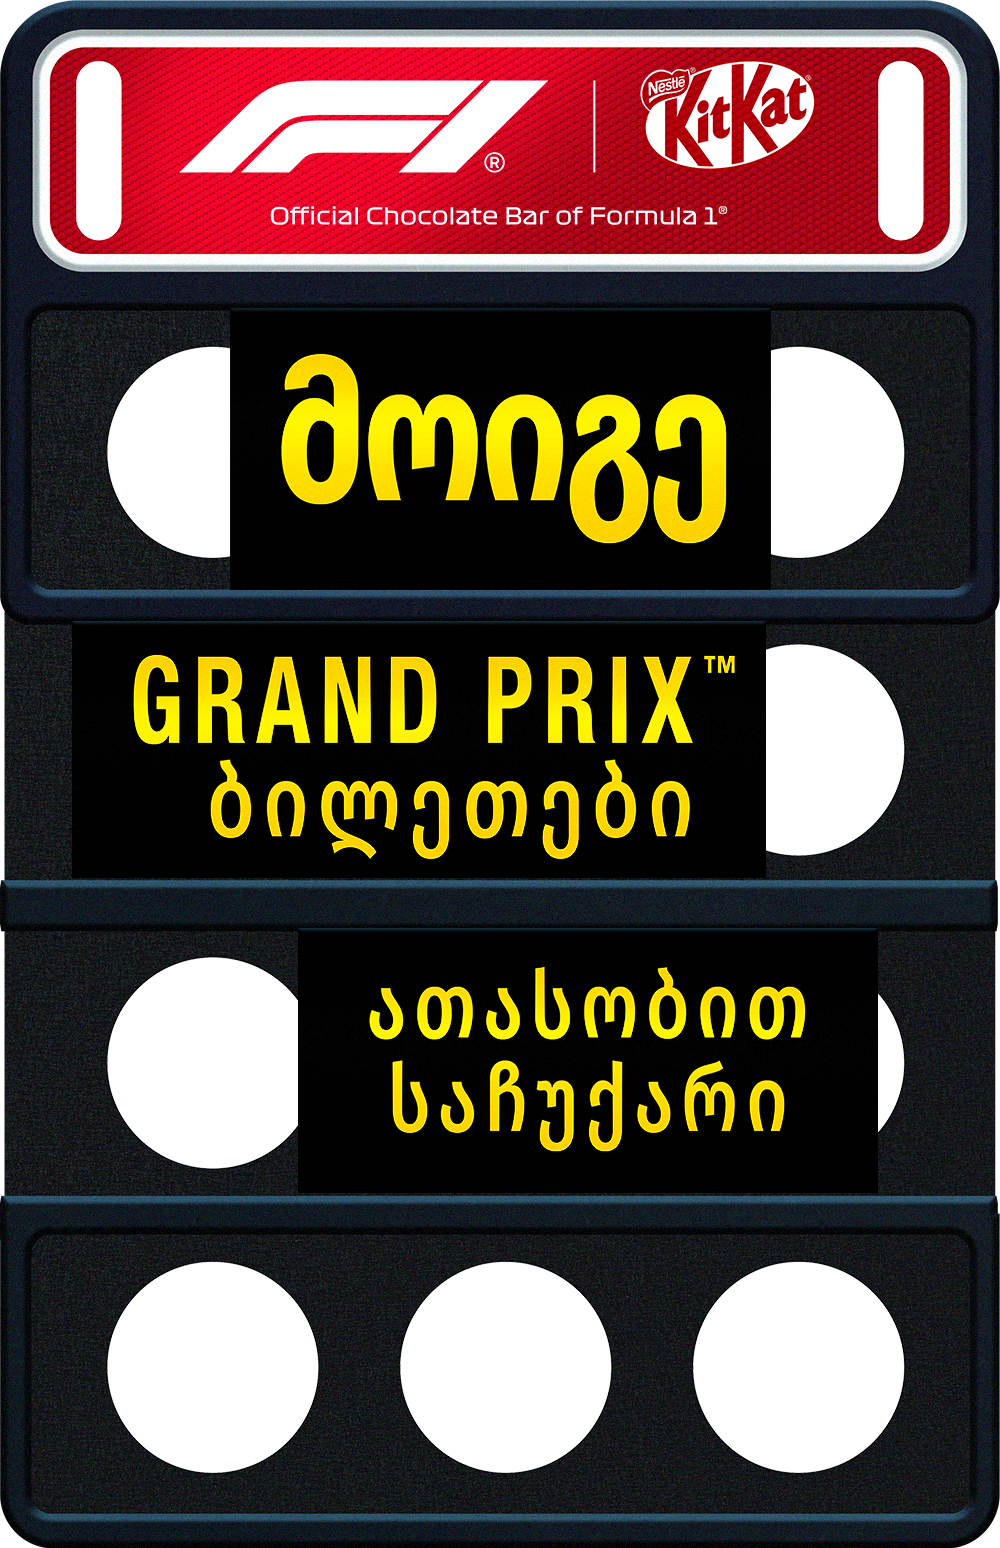
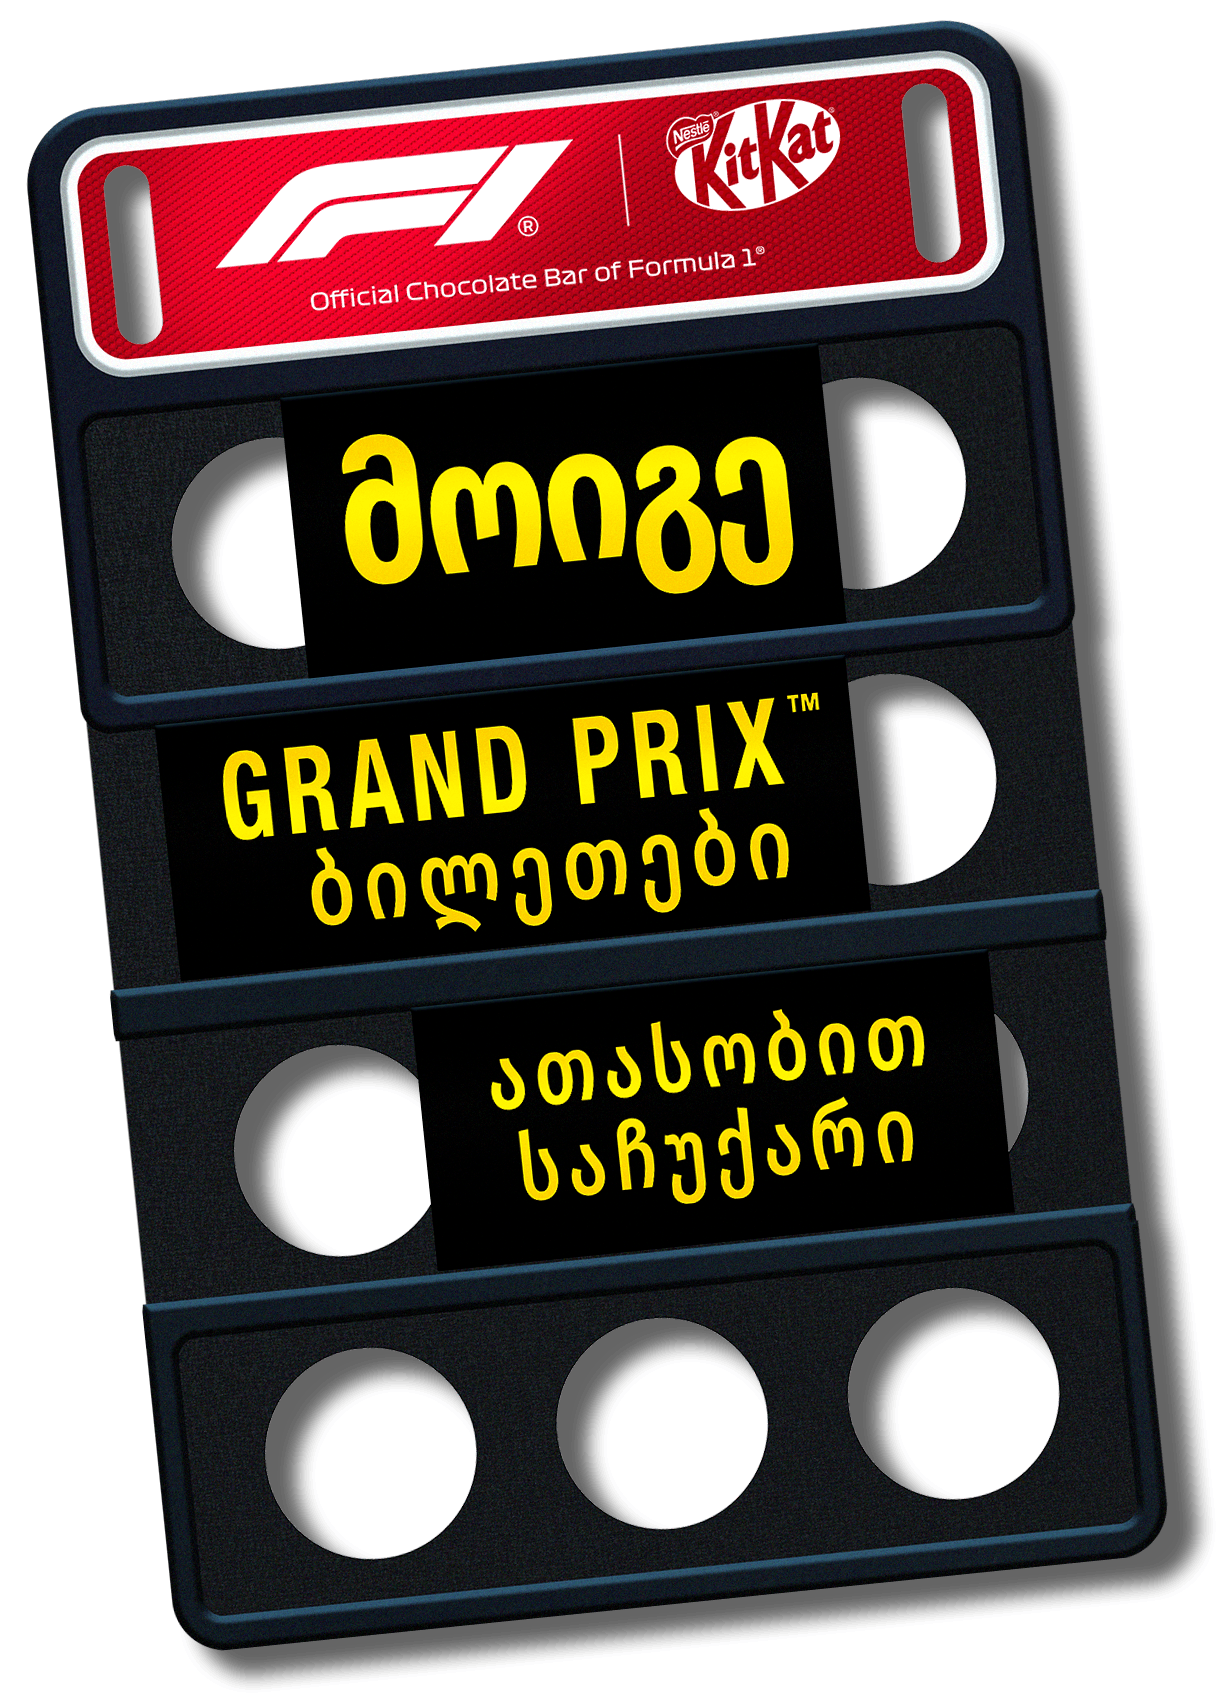
feat: update pitboard with original dimensions (1224x1696)
Made-with: Cursor

diff --git a/admin-panel/src/pages/LandingPage.tsx b/admin-panel/src/pages/LandingPage.tsx
@@ -118,7 +118,8 @@ export function LandingPage() {
           <img
             src="/landing/pitboard.png"
             alt="Pitboard"
-            className="ml-[3%] h-[85%] w-auto object-contain drop-shadow-2xl"
+            className="ml-[3%] max-h-[90%] w-auto object-contain"
+            style={{ aspectRatio: '1224 / 1696' }}
           />
         </div>
       </section>
@@ -127,7 +128,7 @@ export function LandingPage() {
       {/* ── Enter Here / How To Win buttons ── */}
       <section
         className="flex flex-col items-center justify-center gap-3 px-6 py-8 sm:flex-row sm:gap-6 sm:px-16 sm:py-10"
-        style={{ backgroundImage: 'url(/landing/kitkat-bar.png)', backgroundSize: 'cover', backgroundPosition: 'center' }}
+        style={{ backgroundImage: 'url(/landing/bar-background.jpg)', backgroundSize: 'cover', backgroundPosition: 'center' }}
       >
         <a
           href="#enter"
